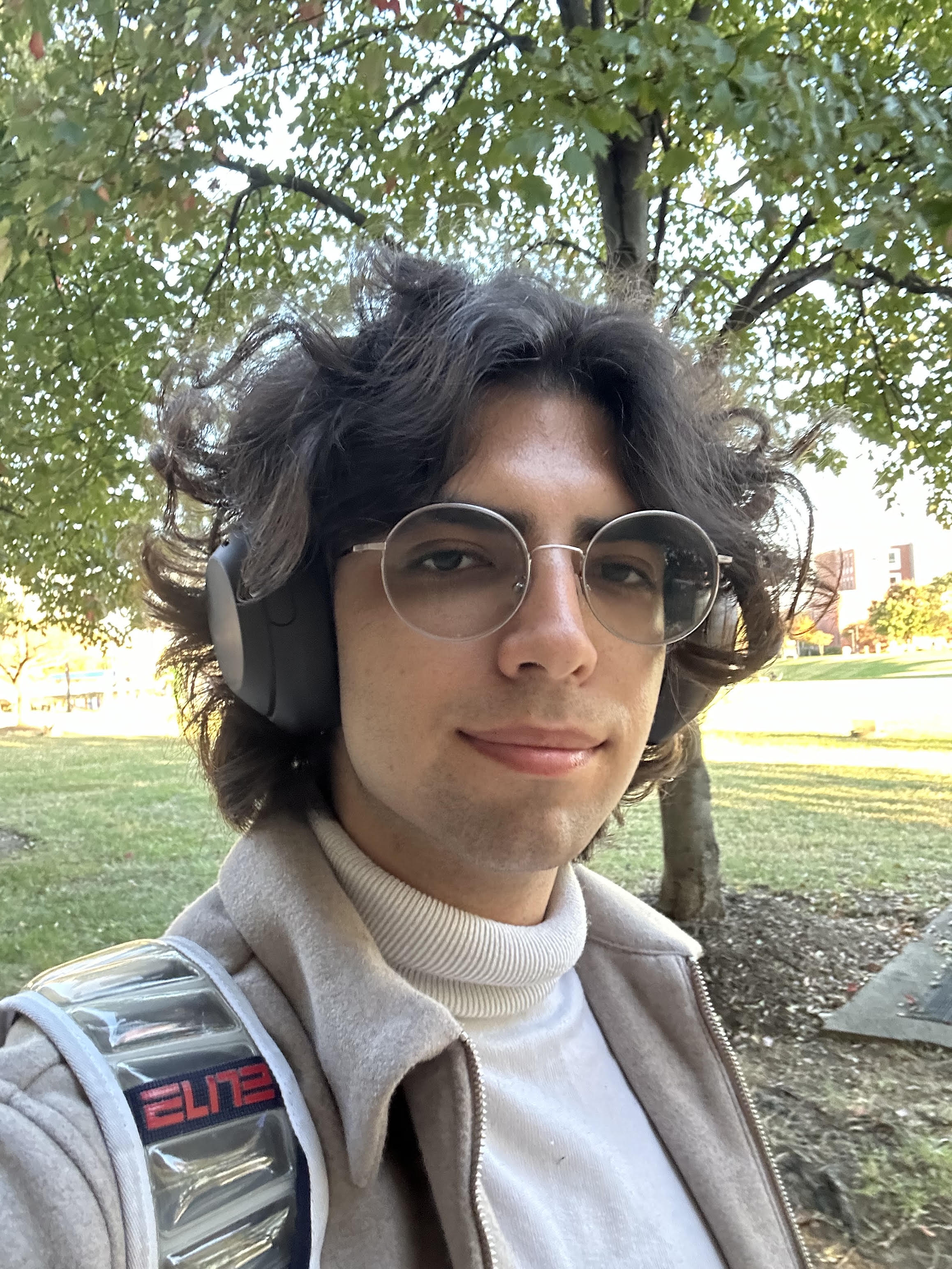
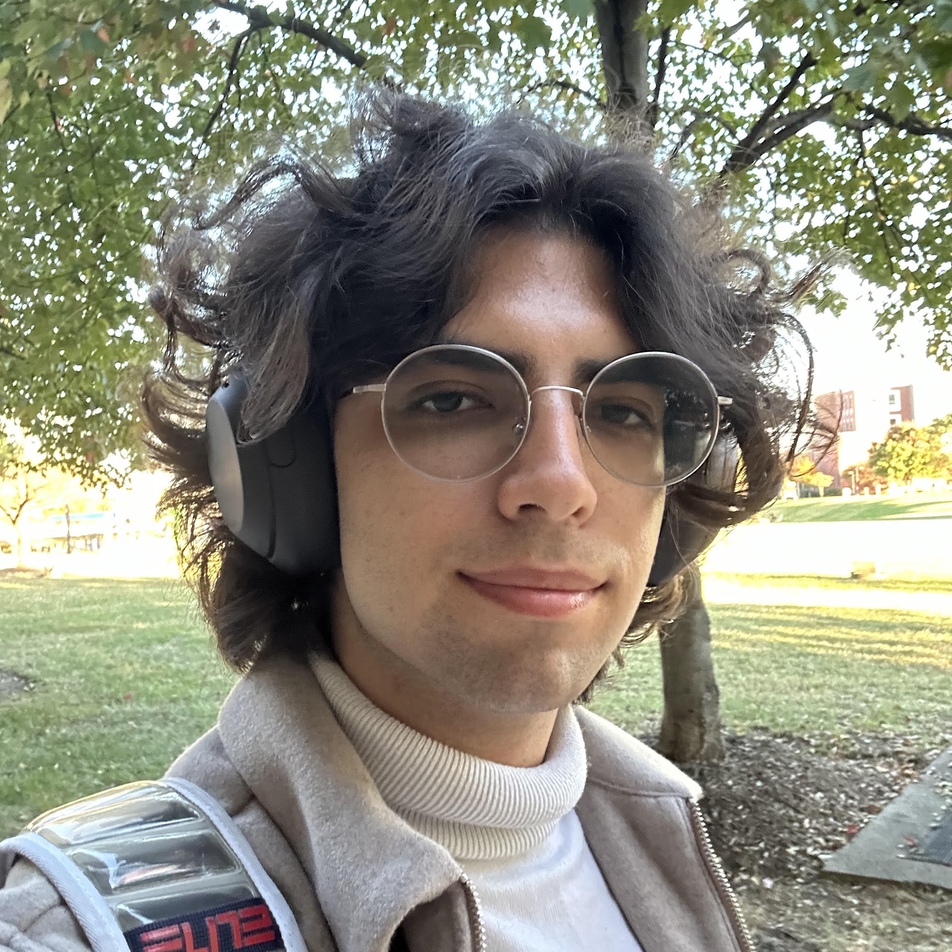
Centered Bio on website, expanded bio description and added some formatting to bring more emphasis onto the text

diff --git a/index.html b/index.html
@@ -62,14 +62,14 @@
             <img 
                 src="images/self-portrait.jpg" 
                 alt="An image of me, the creator of this website"
-                width="550">
+                width="600">
 
             <section class="textbox">
 
                 <h2>Hello!</h2>
                 
                 <p class="subtext">
-                    Welcome to my portfollio website.
+                    <em>Welcome to my portfollio website.</em>
                 </p>
 
                 <br>
@@ -79,7 +79,23 @@
                 <br>
 
                 <p>
-                    Lorem ipsum dolor sit amet consectetur adipisicing elit. Tempore dolore, aut sit atque recusandae quo provident architecto tempora obcaecati dolorum illo nemo quasi? Dolorum quibusdam illo, odit illum tenetur fuga.
+                    My name is Nicholas Papadopoulos, I am a recent college graduate from
+                    University of Maryland Baltimore County who's eager to apply my programming
+                    and design experience to help bring projects from imagination to reality. This 
+                    website is a place where you can peruse all the projects ive worked on as well
+                    as get a detailed look at my education experience.
+                </p>
+
+                <br><br>
+
+                <p>
+                    I have worked with a variety of computer science adjacent concepts like Networking, 
+                    Linux Kernels, AI, Web Development, and Software Dev. I love to try new things and
+                    I'm very flexible at learning new concepts if it can help with reaching my goals. 
+                    Programming is a unique skill in which the bounds of what you can create are nearly
+                    limitless as long as you have the will to learn what it takes to make it. I learn in
+                    hopes that one day I will have the experience and skills to participate in making
+                    something truly spectacular.
                 </p>
 
             </section>

diff --git a/css/style.css b/css/style.css
@@ -1,7 +1,7 @@
 :root {
     --color-gradient-1: rgb(85, 160, 230);
     --color-gradient-2: rgb(55, 46, 157);
-    --color-textbox: rgb(216, 221, 224);
+    --color-background: rgb(227, 235, 241);
 }
 
 
@@ -10,24 +10,33 @@
     box-sizing:border-box;
     padding: 0;
     margin: 0;
-    font-family:'Gill Sans', 'Gill Sans MT', Calibri, 'Trebuchet MS', sans-serif;
 }
 
 /* Broad Element Types */
 
+html {
+    background-color: var(--color-background);
+}
+
+h2 {
+    font-family: Impact, Haettenschweiler, 'Arial Narrow Bold', sans-serif;
+    font-size: 4rem;
+}
+
 p {
-    font-size: 1rem;
+    font-size: 2rem;
+    font-family: 'Gill Sans', 'Gill Sans MT', Calibri, 'Trebuchet MS', sans-serif;
+    color:rgb(59, 59, 59);
 }
 
 /* General Rules*/
 
 body {
-    width: 100vw;
     overflow: auto;
 }
 
 img {
-    border: solid 10px transparent;
+    border: solid 5px transparent;
     border-image: linear-gradient(to right, var(--color-gradient-1), var(--color-gradient-2)) 1;
 }
 
@@ -77,8 +86,6 @@ nav {
 #navbar ul {
     width: 40%;
 
-    margin: 20px;
-
     display: flex;
     justify-content: space-evenly;
     align-items: center;
@@ -96,32 +103,41 @@ nav {
     color:white;
 }
 
+#navbar ul li:active {
+    color:black;
+}
+
 /* Main */
 
 main {
     width: 80%;
-    height: 100vh;
 
-    margin: 5vw auto;
-
-    overflow: auto;
+    margin: 2rem auto;
 }
 
 /* Bio */
 
 .bio {
     width: 100%;
+    min-height: 70vh;
 
     display: flex;
-    justify-content: space-evenly;
+    justify-content: center;
     align-items: center;
-    gap: 30px;
+    gap: 4rem;
+
+    margin: auto, auto;
+}
+
+.textbox h2 {
+    color: var(--color-gradient-2);
 }
 
 .textbox {
 
-    padding: 30px;
+    border-left: 5px solid black;
 
+    padding: 3rem;
     background-color: var(--color-textbox);
     
 }
